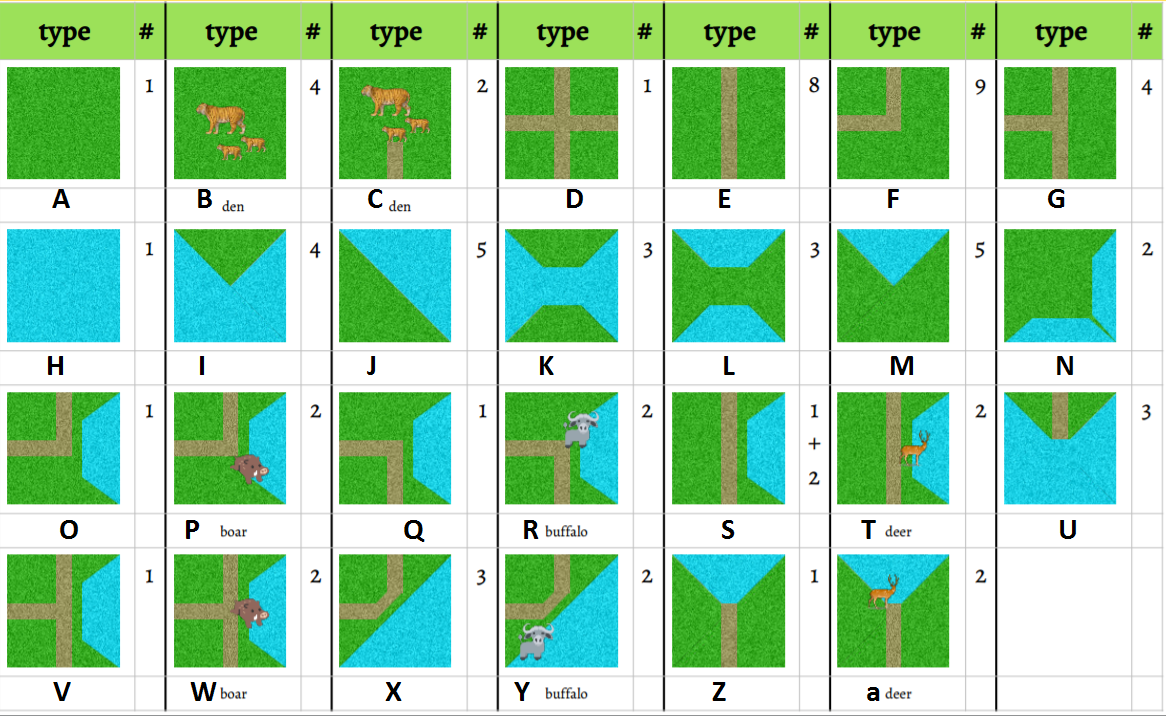
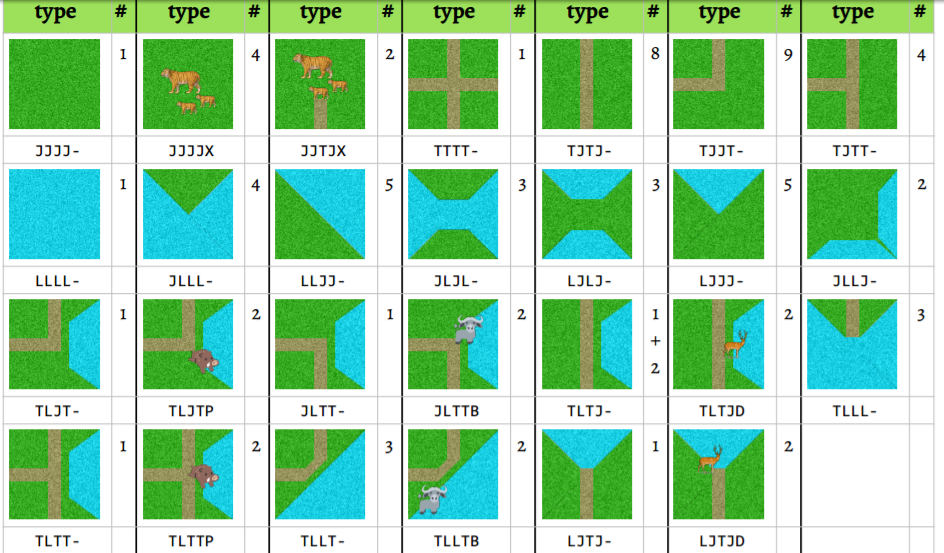
modified for new tile types

Changed region(s): [[0.0, 0.0, 1.0, 1.0], [0.8909, 0.7071, 0.9216, 0.7685], [0.1843, 0.3689, 0.215, 0.3996]]

diff --git a/src/entities/TileStack.java b/src/entities/TileStack.java
@@ -24,7 +24,7 @@ import java.util.Map;
 public class TileStack {
 
     //class members
-    protected Map<Character, ArrayList<SquareTile>> tileStack;
+    protected Map<String, ArrayList<SquareTile>> tileStack;
     protected int tileCount;
 
     /**
@@ -32,7 +32,7 @@ public class TileStack {
 	 */
     public TileStack() {
 
-        tileStack = new HashMap<Character, ArrayList<SquareTile>>();
+        tileStack = new HashMap<String, ArrayList<SquareTile>>();
         tileCount = 0;
 
         try { //attempt to parse XML file of tiles
@@ -58,7 +58,7 @@ public class TileStack {
                     //take ith element and find multiplicity
                     Node nNode = nList.item(i);
                     Element eElement = (Element) nNode;
-                    char type = eElement.getAttribute("type").charAt(0);
+                    string type = eElement.getAttribute("type");
                     int multiplicity = Integer.parseInt(eElement.getAttribute("count"));
 
 
@@ -86,11 +86,11 @@ public class TileStack {
 	 * getTiles() will return the tile stack
      * @return the tileStack
 	 */
-    public Map<Character, ArrayList<SquareTile>> getTiles() {
+    public Map<String, ArrayList<SquareTile>> getTiles() {
         return tileStack;
     }
 
-    public ArrayList<SquareTile> getList(char type) {
+    public ArrayList<SquareTile> getList(string type) {
         return tileStack.get(type);
     }
 
@@ -98,7 +98,7 @@ public class TileStack {
 	 * setTiles() will set the current tile stack to a new tile stack
      * @param tileStack will set the tileStack to a new tileStack
 	 */
-    public void setTiles(Map<Character, ArrayList<SquareTile>> tileStack) {
+    public void setTiles(Map<String, ArrayList<SquareTile>> tileStack) {
         this.tileStack = tileStack;
     }
 

diff --git a/src/entities/BoardObject.java b/src/entities/BoardObject.java
@@ -16,7 +16,7 @@ public class BoardObject {
 
 	protected static final int ROWSIZE = 11, COLSIZE = 11;
 	protected TileStack tileStack;
-	protected Map<Character, ArrayList<SquareTile>> tiles = new HashMap<Character, ArrayList<SquareTile>>();
+	protected Map<String, ArrayList<SquareTile>> tiles = new HashMap<String, ArrayList<SquareTile>>();
 	protected SquareTile[][] board;
 	protected boolean state; //right now this serves as just a if we started or not
 	protected ArrayList<Location> availableSpots;
@@ -54,7 +54,7 @@ public class BoardObject {
 		this.availableSpots = availableSpots;
 	}
 
-	// public Map<Character, ArrayList<SquareTile>> getMap() {
+	// public Map<String, ArrayList<SquareTile>> getMap() {
 	// 	return tiles;
 	// }
 
@@ -202,7 +202,7 @@ public class BoardObject {
 	*	@param orientation The desired orientation (0=0, 1=90, 2=180, 3=270)
 	*	@return the corresponding SquareTile
 	*/
-	public SquareTile getTile(char type, int orientation) {;
+	public SquareTile getTile(String type, int orientation) {;
 		return tileStack.getTile(type,orientation);
 	}
 

diff --git a/src/entities/TileObject.java b/src/entities/TileObject.java
@@ -7,7 +7,7 @@ public abstract class TileObject {
 
 	protected int tileID;
 	protected int orientation; //orientation mappings: {i=0:0, 1:90, 2:180, 3:270}
-	protected char type;
+	protected String type;
 	protected char center;
 
 	protected Location coord;
@@ -75,7 +75,7 @@ public abstract class TileObject {
 	 * See Tile Type.png for more information
 	 * @return the current tile's type
 	 */
-	public char getType() {
+	public String getType() {
 		return type;
 	}
 
@@ -83,7 +83,7 @@ public abstract class TileObject {
 	 * setType() set's the current tile's type
 	 * @param type the new tile type to set
 	 */
-	public void setType(char type) {
+	public void setType(String type) {
 		this.type = type;
 	}
 

diff --git a/src/entities/SquareTile.java b/src/entities/SquareTile.java
@@ -29,7 +29,7 @@ import java.util.ArrayList;
 public class SquareTile extends TileObject {
 
 
-	public SquareTile(char type, int orientation) {
+	public SquareTile(String type, int orientation) {
 		try { //attempt to parse XML file of tiles
 
             //file to parse
@@ -114,7 +114,7 @@ public class SquareTile extends TileObject {
 		tileID = tileNum++; //ensures uniqueID to a tile
 		orientation = 0;
 		coord = new Location();
-		type = eElement.getAttribute("type").charAt(0);
+		type = eElement.getAttribute("type");
 		edges = new edge[4];
 
 		//setup edge data, mappings: {i=O:north, i=1:east, i=2:south, i=4:west}

diff --git a/src/entities/TigerZone.java b/src/entities/TigerZone.java
@@ -14,9 +14,9 @@ public class TigerZone {
 	public static void main(String[] args) {
 
 
-		SquareTile tile = new SquareTile('A',0);
-		SquareTile tile2 = new SquareTile('S',0);
-		SquareTile tile3 = new SquareTile('S',3);
+		SquareTile tile = new SquareTile("JJJJ-",0);
+		SquareTile tile2 = new SquareTile("TLTJ-",0);
+		SquareTile tile3 = new SquareTile("TLTJ-",3);
 
 		System.out.println(tile.toString());
 		System.out.println(tile2.toString());
